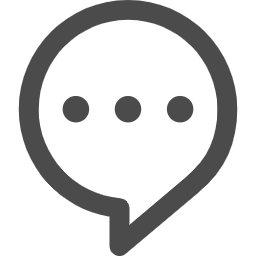
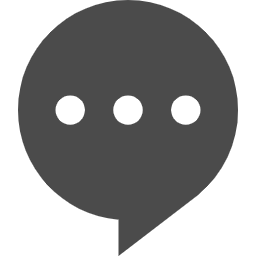
Fix shelter information

diff --git a/StaticHTMLPages/index.html b/StaticHTMLPages/index.html
@@ -16,7 +16,7 @@
 <body>
     <!-- ヘッダー -->
     <div id="header">
-        <h2 id="header-title">3Dハザードマップ</h2>
+        <h2 id="header-title">わかりやすい避難地図</h2>
     </div>
     <!-- 地図 -->
     <div id="map-area">
@@ -30,24 +30,23 @@
         </div>
         <div id="map"></div>
     </div>
-	<div class="wrap">
-		<div class="hanrei"><img src="data/gake.png" width="100" height="150" alt="土砂災害警戒区域急傾斜地の崩壊"/>
-      </div>
-	  	<div class="hanrei"><img src="data/dosekiryu.png" width="100" height="150" alt="土砂災害特別警戒区域土石流"/>
-		</div>
-	  	<div class="hanrei"><img src="data/zisuberi.png" width="100" height="150" alt="土砂災害特別警戒区域地滑り"/> </div>
-		<div class="hanrei"><img src="data/shinsui.png" width="100" height="150" alt="洪水浸水想定区域の深さ">
-		</div>
-   </div>
     <!-- 避難所情報 -->
-    <div id="shelter-info">
-        <div class="ui icon message" id="shelter-info-textarea">
-            <i class="bullhorn icon"></i>
-            <div class="content">
-              <div class="header">避難所情報</div>
-              <p>この近くの避難所は、<span id="shelter-name"></span>です。こちらの避難所に避難所してください！</p>
+    <div id="bottom-area" >
+        <div id="shelter-info">
+            <div class="ui icon message" id="shelter-info-textarea">
+                <i class="bullhorn icon"></i>
+                <div class="content">
+                  <div class="header"><span id="shelter-info-title">西海市からのお知らせ</span></div>
+                  <p id="shelter-info-comment">この近くの避難所は、「<span id="shelter-name"></span>」です。こちらの避難所に避難してください！</p>
+                </div>
             </div>
-          </div>
+        </div>
+        <div class="wrap">
+            <div class="hanrei"><img src="data/gake.png" width="100" height="150" alt="土砂災害警戒区域急傾斜地の崩壊"/></div>
+            <div class="hanrei"><img src="data/dosekiryu.png" width="100" height="150" alt="土砂災害特別警戒区域土石流"/></div>
+            <div class="hanrei"><img src="data/zisuberi.png" width="100" height="150" alt="土砂災害特別警戒区域地滑り"/> </div>
+            <div class="hanrei"><img src="data/shinsui.png" width="100" height="150" alt="洪水浸水想定区域の深さ"></div>
+        </div>
     </div>
     <script src="index.js"></script>
 </body>

diff --git a/StaticHTMLPages/index.js b/StaticHTMLPages/index.js
@@ -46,13 +46,6 @@ map.on('load', function () {
         }
     });
 
-    let disasterInfo;
-    // 避難情報を取得する
-    axios.get(url).then(response => {
-        disasterInfo = response["data"];
-        console.log(disasterInfo);
-    })
-
     // 避難所情報レイヤを追加
     // TODO: APIからとってきたデータを指定したい
     //       現在はGeoJSON形式が有効でないと表示され、使えない
@@ -61,15 +54,22 @@ map.on('load', function () {
         data: { "type": "FeatureCollection", "name": "Disaster Information", "crs": { "type": "name", "properties": { "name": "urn:ogc:def:crs:OGC:1.3:CRS84" } }, "features": [{ "type": "Feature", "properties": { "comment":"がけ崩れが発生していて、道路が通行できません"}, "geometry": { "type": "Point", "coordinates": [ 129.64678750160488, 32.93252441099267 ] } }, { "type": "Feature", "properties": { "comment":"火災発生"}, "geometry": { "type": "Point", "coordinates": [ 129.64102957448563, 32.932827570084726 ] } }, { "type": "Feature", "properties": { "comment":"教会で、火災発生6 Escape ***"}, "geometry": { "type": "Point", "coordinates": [ 129.64208701018111, 32.933548750025345 ] } }]}
     });
 
+    map.loadImage(
+        '/img/comment.png',
+        function (error, image) {
+            if (error) throw error;
+            map.addImage('comment_icon', image);
+        }
+    );
+
     // スタイルを設定
     map.addLayer({
         'id': 'disaster',
-        'type': 'circle',
-        'source': 'disaster',
-        'layout': {},
-        'paint': {
-            'circle-color': '#008000',
-            'circle-radius': 5
+		'type': 'symbol',
+		'source': 'disaster',
+		'layout': {
+		'icon-image': 'comment_icon',
+		'icon-size': 0.1
         }   
     });
 });
@@ -137,3 +137,11 @@ map.on('mouseenter', 'disaster', function () {
 map.on('mouseleave', 'disaster', function () {
     map.getCanvas().style.cursor = '';
 });
+
+/* // チェックボックスのオンオフでレイヤの表示/非表示を切り替える
+
+$(#shelter-layer).click(function(){
+    if(!$(this).prop('checked')){
+        map.removeLayer('shelter_point');
+    }
+}); */

diff --git a/StaticHTMLPages/style.css b/StaticHTMLPages/style.css
@@ -38,18 +38,38 @@ body {
     width: 100%;
     height: 50%;  
 } */
+/* フッター */
+#bottom-area{
+    height: 25%;
+    display: flex;
+}
+#shelter-info-title{
+    font-size: 25px;
+}
+#shelter-info-comment{
+    font-size: 25px;
+}
 /* シェルター情報 */
 #shelter-info{
-    height: 10%;
+    height: 100%;
+    width: 50%;
 }
 #shelter-info-textarea{
     height: 100%;
 }
+#shelter-name{
+    font-weight: bold;
+}
 /* 凡例 */
-.wrap{	display:flex;
-		flex-wrap: wrap;
-		margin: 2px}
-.hanrei{font-size: 0.5rem;
-		text-align: center;
-		margin: 2px;
-		flex-basis: auto}
+.wrap{
+    width: 50%;
+    display:flex;
+	flex-wrap: wrap;
+	margin: 2px
+}
+.hanrei{
+    font-size: 0.5rem;
+	text-align: center;
+	margin: 2px;
+	flex-basis: auto
+}
